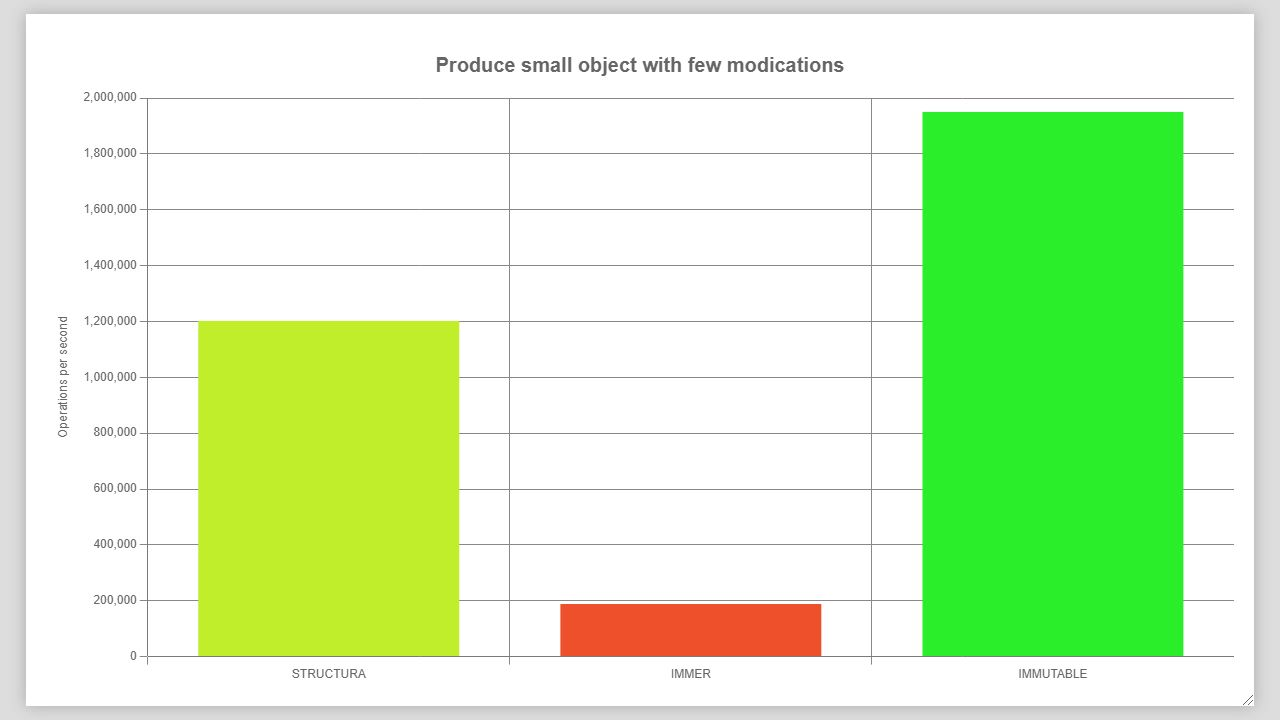
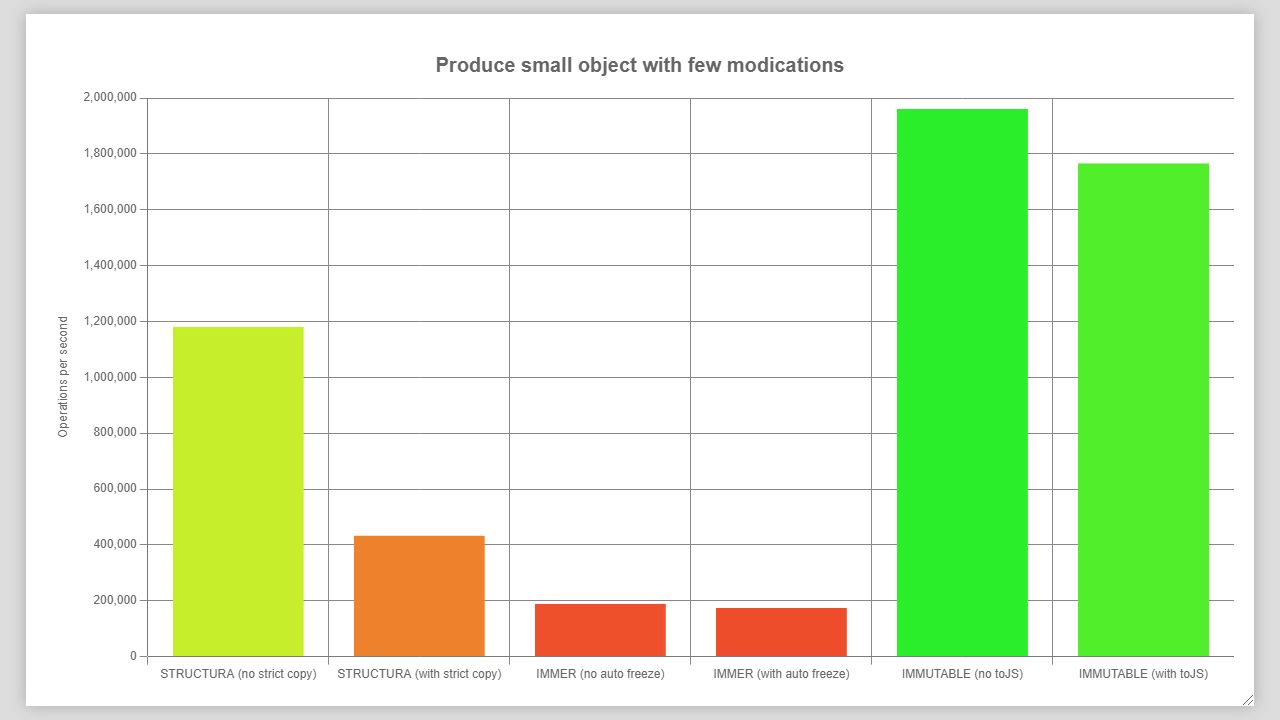
deploy: c47fe31816fb0c2b731f33091f41f38f4eaa18f3

Changed region(s): [[0.125, 0.1528, 0.9688, 0.9472]]

diff --git a/benchmark/wide_many.chart.html b/benchmark/wide_many.chart.html
@@ -28,7 +28,7 @@
   </head>
   <body>
     <div class="container">
-      <canvas id="chart1674242560817" width="16" height="9"></canvas>
+      <canvas id="chart1674500977646" width="16" height="9"></canvas>
     </div>
     <script>
       const format = (num) => {
@@ -51,18 +51,18 @@
           chunked.map((chunk) => chunk.join('')).join(' ') + fractionStr
         )
       }
-      const ctx1674242560817 = document
-        .getElementById('chart1674242560817')
+      const ctx1674500977646 = document
+        .getElementById('chart1674500977646')
         .getContext('2d')
-      const chart1674242560817 = new Chart(ctx1674242560817, {
+      const chart1674500977646 = new Chart(ctx1674500977646, {
         type: 'bar',
         data: {
-          labels: ["STRUCTURA (no strict copy)","STRUCTURA (with strict copy)","IMMER (no auto freeze)","IMMER (with auto freeze)","mutative","IMMUTABLE (no toJS)","IMMUTABLE (with toJS)"],
+          labels: ["STRUCTURA (no strict copy)","STRUCTURA (with strict copy)","IMMER (no auto freeze)","IMMER (with auto freeze)","IMMUTABLE (no toJS)","IMMUTABLE (with toJS)"],
           datasets: [
             {
-              data: [178,63,30,27,190,136,67],
-              backgroundColor: ["hsl(112.41600000000001, 85%, 55%)","hsl(39.791999999999994, 85%, 55%)","hsl(18.948000000000008, 85%, 55%)","hsl(17.051999999999992, 85%, 55%)","hsl(120, 85%, 55%)","hsl(85.896, 85%, 55%)","hsl(42.312000000000005, 85%, 55%)"],
-              borderColor: ["hsl(112.41600000000001, 85%, 55%)","hsl(39.791999999999994, 85%, 55%)","hsl(18.948000000000008, 85%, 55%)","hsl(17.051999999999992, 85%, 55%)","hsl(120, 85%, 55%)","hsl(85.896, 85%, 55%)","hsl(42.312000000000005, 85%, 55%)"],
+              data: [182,63,30,28,159,66],
+              backgroundColor: ["hsl(120, 85%, 55%)","hsl(41.54400000000001, 85%, 55%)","hsl(19.776000000000003, 85%, 55%)","hsl(18.455999999999996, 85%, 55%)","hsl(104.83200000000001, 85%, 55%)","hsl(43.512, 85%, 55%)"],
+              borderColor: ["hsl(120, 85%, 55%)","hsl(41.54400000000001, 85%, 55%)","hsl(19.776000000000003, 85%, 55%)","hsl(18.455999999999996, 85%, 55%)","hsl(104.83200000000001, 85%, 55%)","hsl(43.512, 85%, 55%)"],
               borderWidth: 2,
             },
           ],

diff --git a/benchmark/small_many.chart.html b/benchmark/small_many.chart.html
@@ -28,7 +28,7 @@
   </head>
   <body>
     <div class="container">
-      <canvas id="chart1674242500563" width="16" height="9"></canvas>
+      <canvas id="chart1674500911582" width="16" height="9"></canvas>
     </div>
     <script>
       const format = (num) => {
@@ -51,18 +51,18 @@
           chunked.map((chunk) => chunk.join('')).join(' ') + fractionStr
         )
       }
-      const ctx1674242500563 = document
-        .getElementById('chart1674242500563')
+      const ctx1674500911582 = document
+        .getElementById('chart1674500911582')
         .getContext('2d')
-      const chart1674242500563 = new Chart(ctx1674242500563, {
+      const chart1674500911582 = new Chart(ctx1674500911582, {
         type: 'bar',
         data: {
-          labels: ["STRUCTURA","IMMER","mutative","IMMUTABLE"],
+          labels: ["STRUCTURA (no strict copy)","STRUCTURA (with strict copy)","IMMER (no auto freeze)","IMMER (with auto freeze)","IMMUTABLE (no toJS)","IMMUTABLE (with toJS)"],
           datasets: [
             {
-              data: [223310,106373,113068,526891],
-              backgroundColor: ["hsl(50.856, 85%, 55%)","hsl(24.227999999999994, 85%, 55%)","hsl(25.751999999999992, 85%, 55%)","hsl(120, 85%, 55%)"],
-              borderColor: ["hsl(50.856, 85%, 55%)","hsl(24.227999999999994, 85%, 55%)","hsl(25.751999999999992, 85%, 55%)","hsl(120, 85%, 55%)"],
+              data: [217162,160767,112527,108238,527133,512760],
+              backgroundColor: ["hsl(49.440000000000005, 85%, 55%)","hsl(36.6, 85%, 55%)","hsl(25.619999999999994, 85%, 55%)","hsl(24.636000000000003, 85%, 55%)","hsl(120, 85%, 55%)","hsl(116.724, 85%, 55%)"],
+              borderColor: ["hsl(49.440000000000005, 85%, 55%)","hsl(36.6, 85%, 55%)","hsl(25.619999999999994, 85%, 55%)","hsl(24.636000000000003, 85%, 55%)","hsl(120, 85%, 55%)","hsl(116.724, 85%, 55%)"],
               borderWidth: 2,
             },
           ],

diff --git a/benchmark/wide_few.chart.html b/benchmark/wide_few.chart.html
@@ -28,7 +28,7 @@
   </head>
   <body>
     <div class="container">
-      <canvas id="chart1674242522230" width="16" height="9"></canvas>
+      <canvas id="chart1674500944728" width="16" height="9"></canvas>
     </div>
     <script>
       const format = (num) => {
@@ -51,18 +51,18 @@
           chunked.map((chunk) => chunk.join('')).join(' ') + fractionStr
         )
       }
-      const ctx1674242522230 = document
-        .getElementById('chart1674242522230')
+      const ctx1674500944728 = document
+        .getElementById('chart1674500944728')
         .getContext('2d')
-      const chart1674242522230 = new Chart(ctx1674242522230, {
+      const chart1674500944728 = new Chart(ctx1674500944728, {
         type: 'bar',
         data: {
-          labels: ["STRUCTURA","IMMER","mutative","IMMUTABLE"],
+          labels: ["STRUCTURA (no strict copy)","STRUCTURA (with stict copy)","IMMER (no auto freeze)","IMMER (with auto freeze)","IMMUTABLE (no toJS)","IMMUTABLE (with toJS)"],
           datasets: [
             {
-              data: [187,37,189,146],
-              backgroundColor: ["hsl(118.728, 85%, 55%)","hsl(23.495999999999995, 85%, 55%)","hsl(120, 85%, 55%)","hsl(92.69999999999999, 85%, 55%)"],
-              borderColor: ["hsl(118.728, 85%, 55%)","hsl(23.495999999999995, 85%, 55%)","hsl(120, 85%, 55%)","hsl(92.69999999999999, 85%, 55%)"],
+              data: [188,63,38,27,154,65],
+              backgroundColor: ["hsl(120, 85%, 55%)","hsl(40.21200000000001, 85%, 55%)","hsl(24.251999999999995, 85%, 55%)","hsl(17.232, 85%, 55%)","hsl(98.29199999999999, 85%, 55%)","hsl(41.483999999999995, 85%, 55%)"],
+              borderColor: ["hsl(120, 85%, 55%)","hsl(40.21200000000001, 85%, 55%)","hsl(24.251999999999995, 85%, 55%)","hsl(17.232, 85%, 55%)","hsl(98.29199999999999, 85%, 55%)","hsl(41.483999999999995, 85%, 55%)"],
               borderWidth: 2,
             },
           ],

diff --git a/benchmark/nested_many.chart.html b/benchmark/nested_many.chart.html
@@ -28,7 +28,7 @@
   </head>
   <body>
     <div class="container">
-      <canvas id="chart1674242461799" width="16" height="9"></canvas>
+      <canvas id="chart1674500846136" width="16" height="9"></canvas>
     </div>
     <script>
       const format = (num) => {
@@ -51,18 +51,18 @@
           chunked.map((chunk) => chunk.join('')).join(' ') + fractionStr
         )
       }
-      const ctx1674242461799 = document
-        .getElementById('chart1674242461799')
+      const ctx1674500846136 = document
+        .getElementById('chart1674500846136')
         .getContext('2d')
-      const chart1674242461799 = new Chart(ctx1674242461799, {
+      const chart1674500846136 = new Chart(ctx1674500846136, {
         type: 'bar',
         data: {
-          labels: ["STRUCTURA (no strict copy)","STRUCTURA (with strict copy)","IMMER (no auto freeze)","mutative","IMMUTABLE (no toJS)"],
+          labels: ["STRUCTURA (no strict copy)","STRUCTURA (with strict copy)","IMMER (no auto freeze)","IMMUTABLE (no toJS)"],
           datasets: [
             {
-              data: [6369,4610,3322,6126,3491],
-              backgroundColor: ["hsl(120, 85%, 55%)","hsl(86.856, 85%, 55%)","hsl(62.59199999999999, 85%, 55%)","hsl(115.41600000000001, 85%, 55%)","hsl(65.772, 85%, 55%)"],
-              borderColor: ["hsl(120, 85%, 55%)","hsl(86.856, 85%, 55%)","hsl(62.59199999999999, 85%, 55%)","hsl(115.41600000000001, 85%, 55%)","hsl(65.772, 85%, 55%)"],
+              data: [6316,4331,3353,3402],
+              backgroundColor: ["hsl(120, 85%, 55%)","hsl(82.28399999999999, 85%, 55%)","hsl(63.708000000000006, 85%, 55%)","hsl(64.63199999999999, 85%, 55%)"],
+              borderColor: ["hsl(120, 85%, 55%)","hsl(82.28399999999999, 85%, 55%)","hsl(63.708000000000006, 85%, 55%)","hsl(64.63199999999999, 85%, 55%)"],
               borderWidth: 2,
             },
           ],

diff --git a/benchmark/nested_few.chart.html b/benchmark/nested_few.chart.html
@@ -28,7 +28,7 @@
   </head>
   <body>
     <div class="container">
-      <canvas id="chart1674242435007" width="16" height="9"></canvas>
+      <canvas id="chart1674500824738" width="16" height="9"></canvas>
     </div>
     <script>
       const format = (num) => {
@@ -51,18 +51,18 @@
           chunked.map((chunk) => chunk.join('')).join(' ') + fractionStr
         )
       }
-      const ctx1674242435007 = document
-        .getElementById('chart1674242435007')
+      const ctx1674500824738 = document
+        .getElementById('chart1674500824738')
         .getContext('2d')
-      const chart1674242435007 = new Chart(ctx1674242435007, {
+      const chart1674500824738 = new Chart(ctx1674500824738, {
         type: 'bar',
         data: {
-          labels: ["STRUCTURA (no strict copy)","STRUCTURA (with strict copy)","IMMER (no auto freeze)","mutative","IMMUTABLE (no toJS)"],
+          labels: ["STRUCTURA (no strict copy)","STRUCTURA (with strict copy)","IMMER (no auto freeze)","IMMUTABLE (no toJS)"],
           datasets: [
             {
-              data: [8980,8473,7785,8908,8565],
-              backgroundColor: ["hsl(120, 85%, 55%)","hsl(113.21999999999998, 85%, 55%)","hsl(104.028, 85%, 55%)","hsl(119.03999999999999, 85%, 55%)","hsl(114.456, 85%, 55%)"],
-              borderColor: ["hsl(120, 85%, 55%)","hsl(113.21999999999998, 85%, 55%)","hsl(104.028, 85%, 55%)","hsl(119.03999999999999, 85%, 55%)","hsl(114.456, 85%, 55%)"],
+              data: [8938,8352,7094,8152],
+              backgroundColor: ["hsl(120, 85%, 55%)","hsl(112.128, 85%, 55%)","hsl(95.24400000000001, 85%, 55%)","hsl(109.45200000000001, 85%, 55%)"],
+              borderColor: ["hsl(120, 85%, 55%)","hsl(112.128, 85%, 55%)","hsl(95.24400000000001, 85%, 55%)","hsl(109.45200000000001, 85%, 55%)"],
               borderWidth: 2,
             },
           ],

diff --git a/benchmark/small_few.chart.html b/benchmark/small_few.chart.html
@@ -28,7 +28,7 @@
   </head>
   <body>
     <div class="container">
-      <canvas id="chart1674242478358" width="16" height="9"></canvas>
+      <canvas id="chart1674500879005" width="16" height="9"></canvas>
     </div>
     <script>
       const format = (num) => {
@@ -51,18 +51,18 @@
           chunked.map((chunk) => chunk.join('')).join(' ') + fractionStr
         )
       }
-      const ctx1674242478358 = document
-        .getElementById('chart1674242478358')
+      const ctx1674500879005 = document
+        .getElementById('chart1674500879005')
         .getContext('2d')
-      const chart1674242478358 = new Chart(ctx1674242478358, {
+      const chart1674500879005 = new Chart(ctx1674500879005, {
         type: 'bar',
         data: {
-          labels: ["STRUCTURA","IMMER","IMMUTABLE"],
+          labels: ["STRUCTURA (no strict copy)","STRUCTURA (with strict copy)","IMMER (no auto freeze)","IMMER (with auto freeze)","IMMUTABLE (no toJS)","IMMUTABLE (with toJS)"],
           datasets: [
             {
-              data: [1201170,187540,1949934],
-              backgroundColor: ["hsl(73.92, 85%, 55%)","hsl(11.544000000000006, 85%, 55%)","hsl(120, 85%, 55%)"],
-              borderColor: ["hsl(73.92, 85%, 55%)","hsl(11.544000000000006, 85%, 55%)","hsl(120, 85%, 55%)"],
+              data: [1179869,432648,188285,173182,1959095,1764755],
+              backgroundColor: ["hsl(72.276, 85%, 55%)","hsl(26.496, 85%, 55%)","hsl(11.531999999999998, 85%, 55%)","hsl(10.608000000000004, 85%, 55%)","hsl(120, 85%, 55%)","hsl(108.09599999999999, 85%, 55%)"],
+              borderColor: ["hsl(72.276, 85%, 55%)","hsl(26.496, 85%, 55%)","hsl(11.531999999999998, 85%, 55%)","hsl(10.608000000000004, 85%, 55%)","hsl(120, 85%, 55%)","hsl(108.09599999999999, 85%, 55%)"],
               borderWidth: 2,
             },
           ],
